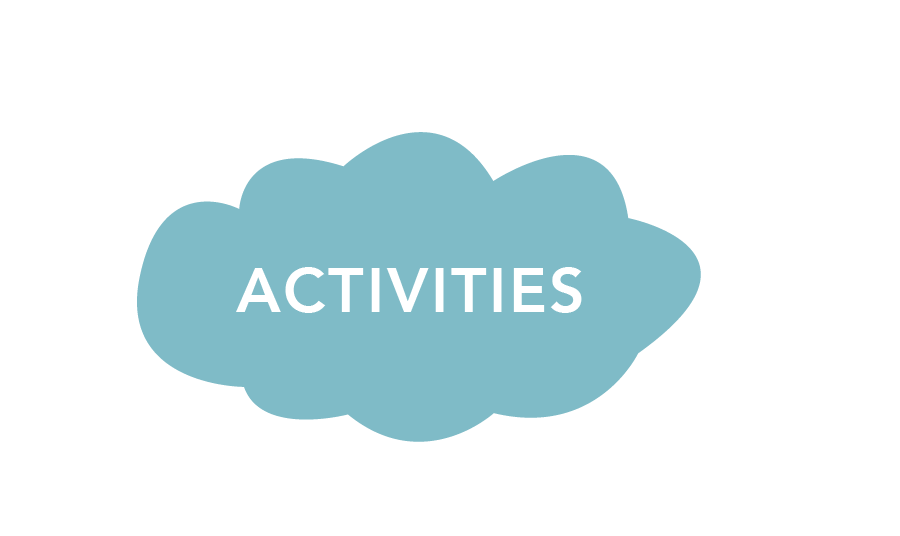
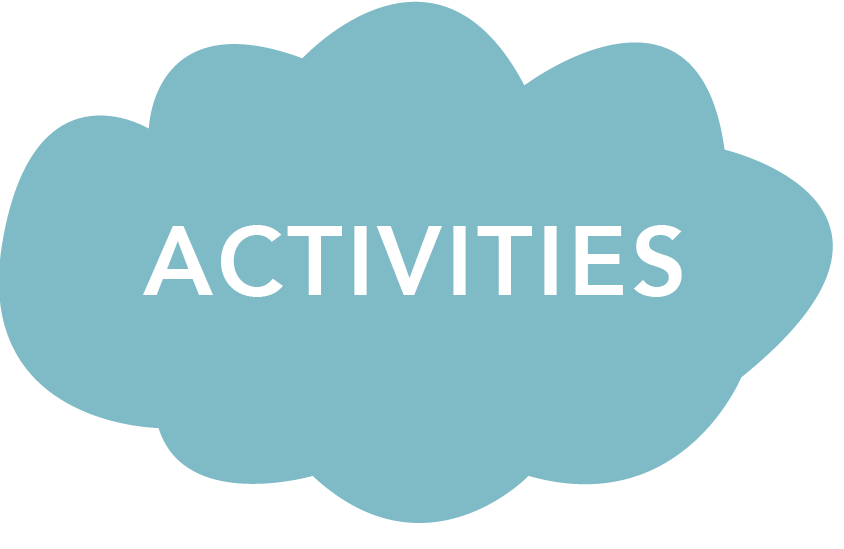
button uniforms

diff --git a/css/positivity.css b/css/positivity.css
@@ -256,19 +256,19 @@ input[type=submit]:hover {
 }
 
 .responsive-button{
-  opacity: 0.9;
+  opacity: 0.8;
   transition: transform .2s;
   cursor: pointer;
 }
 .responsive-button:hover{
   opacity: 1;
-  transform: scale(1.3);
+  transform: scale(1.2);
 }
 #responsive-menu-button{
-  height: 25%;
+  /* height: 25%;
   min-height: 80px;
   min-width: 100px;
-  width: 80%;
+  width: 80%; */
 }
 
 #menu-button:hover{
